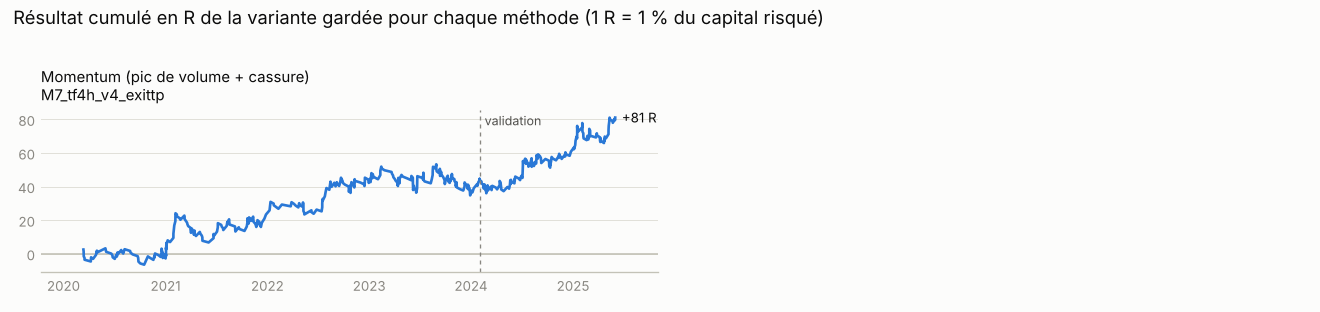
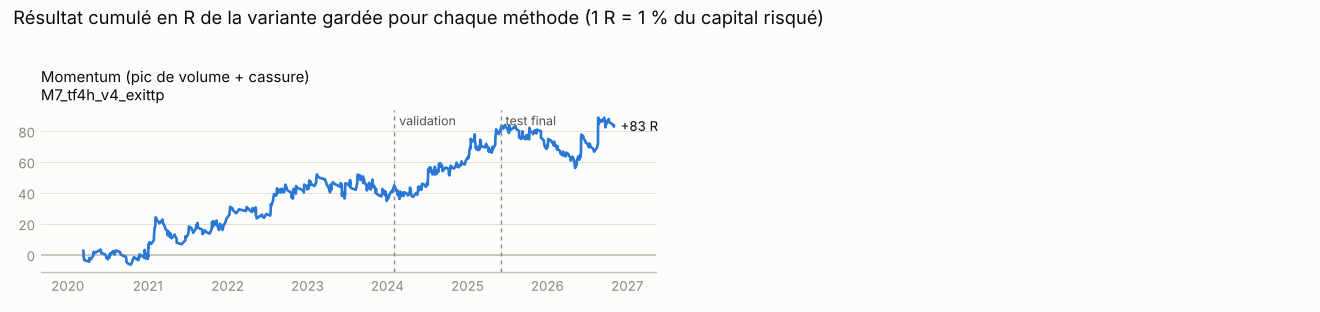
perp-setups: study 6 final test - momentum 4h rejected (no criterion met on the test period)
Claude-Session: https://claude.ai/code/session_01X3vfYSR2DAGQa5vJuYynAS

diff --git a/perp-setups/RAPPORT_ETUDE_6.md b/perp-setups/RAPPORT_ETUDE_6.md
@@ -2,11 +2,13 @@
 
 ## Verdict
 
-**Aucune méthode n'est retenue.** Aucune ne remplit tous les critères sur la validation ; le test final n'a donc pas été ouvert.
+**Aucune méthode n'est retenue.** Les finalistes ne remplissent pas tous les critères sur le test final.
+
+> Avenant (voir `PROTOCOLE_ETUDE_6.md`, section 5) : la variante avait été rejetée sur la validation pour 174 trades au lieu de 200. À la demande de Gabriel, le seuil a été compté sur l'ensemble des périodes et le test final a été ouvert une fois. Le test ne confirme pas la validation.
 
 - Données : 20 paires Binance USDT-M, bougies 15m, funding réel, du 2020-01-01 au 2026-10-31.
 - Découpe : entraînement 2020-01-01 → 2024-01-31, validation 2024-02-01 → 2025-05-31, test final 2025-06-01 → 2026-10-31.
-- Variantes testées dans cette étude : **8** (7 méthodes × 8). Avec les 192 configurations des études précédentes sur les mêmes données : **200 au total**. Plus on en teste, plus un bon résultat isolé peut être dû au hasard.
+- Variantes testées dans cette étude : **8** (7 méthodes × 8), plus 6 variantes décalées pour le test de stabilité. Avec les 192 configurations des études précédentes sur les mêmes données : **206 au total**. Plus on en teste, plus un bon résultat isolé peut être dû au hasard.
 - Tous les chiffres sont nets : frais 0,05 % par côté, slippage 0,02 %, funding payé ou reçu. Risque de 1 % du capital par trade, stop à 1,5 × ATR, 5 positions au plus.
 
 ## Tableau comparatif
@@ -15,7 +17,7 @@ Une ligne par méthode : la variante gardée est celle qui a la meilleure espér
 
 | Méthode | Variante gardée | Entraînement : E[R] (trades) | Validation : E[R] (trades) | Gagnants | Profit factor | Drawdown max | Paires positives | Critères | Test final | Verdict |
 |---|---|---|---|---|---|---|---|---|---|---|
-| **Momentum (pic de volume + cassure)** | `M7_tf4h_v4_exittp` | +0,118 R (373) | +0,213 R (174) | 35,6 % | 1,32 | 11,6 % | 75 % | 7 / 8 | non ouvert | **REJETÉE** |
+| **Momentum (pic de volume + cassure)** | `M7_tf4h_v4_exittp` | +0,118 R (373) | +0,213 R (174) | 35,6 % | 1,32 | 11,6 % | 75 % | 7 / 8 | +0,013 R (161) | **REJETÉE** |
 
 E[R] = gain moyen par trade en multiples du risque, après tous les coûts. Colonnes « Gagnants » à « Critères » : sur la validation.
 
@@ -30,7 +32,7 @@ E[R] = gain moyen par trade en multiples du risque, après tous les coûts. Colo
 
 | Méthode | 1 | 2 | 3 | 4 | 5 | 6 | 7 | 8 | Stabilité ±20 % | Critères ratés |
 |---|---|---|---|---|---|---|---|---|---|---|
-| Momentum (pic de volume + cassure) | ❌ | ✅ | ✅ | ✅ | ✅ | ✅ | ✅ | ✅ | non calculée | ≥ 200 trades |
+| Momentum (pic de volume + cassure) | ❌ | ✅ | ✅ | ✅ | ✅ | ✅ | ✅ | ✅ | ✅ | ≥ 200 trades |
 
 Critères : 1. ≥ 200 trades ; 2. espérance > 0,15 R ; 3. profit factor > 1,3 ; 4. drawdown < 25 % ; 5. ≥ 60 % des paires positives ; 6. Monte Carlo ≥ 95 % ; 7. mieux que le hasard ; 8. mieux que le buy & hold.
 La stabilité n'est calculée que pour une méthode qui remplit les huit autres critères.
@@ -53,11 +55,13 @@ Pour chaque fenêtre de 8 mois, la variante est choisie sur tout ce qui précèd
 
 ![Courbes par méthode](results_etude6/courbes_methodes.png)
 
-Chaque panneau a sa propre échelle verticale. La ligne pointillée marque le début de la validation.
+Chaque panneau a sa propre échelle verticale. La ligne pointillée marque le début de la validation puis du test final.
 
 ## Test final
 
-Non ouvert : aucune méthode ne remplit tous les critères sur la validation. Les données du 2025-06-01 au 2026-10-31 n'ont pas été lues dans cette étude.
+| Variante | Validation : E[R] (trades) | Test : E[R] (trades) | Profit factor | Drawdown max | Critères ratés sur le test | Verdict |
+|---|---|---|---|---|---|---|
+| `M7_tf4h_v4_exittp` | +0,213 R (174) | +0,013 R (161) | 1,02 | 25,4 % | ≥ 200 trades ; espérance > 0,15 R ; profit factor > 1,3 ; drawdown < 25 % ; ≥ 60 % des paires positives ; Monte Carlo ≥ 95 % ; mieux que le hasard ; mieux que le buy & hold | **REJETÉE** |
 
 ## Toutes les variantes
 
